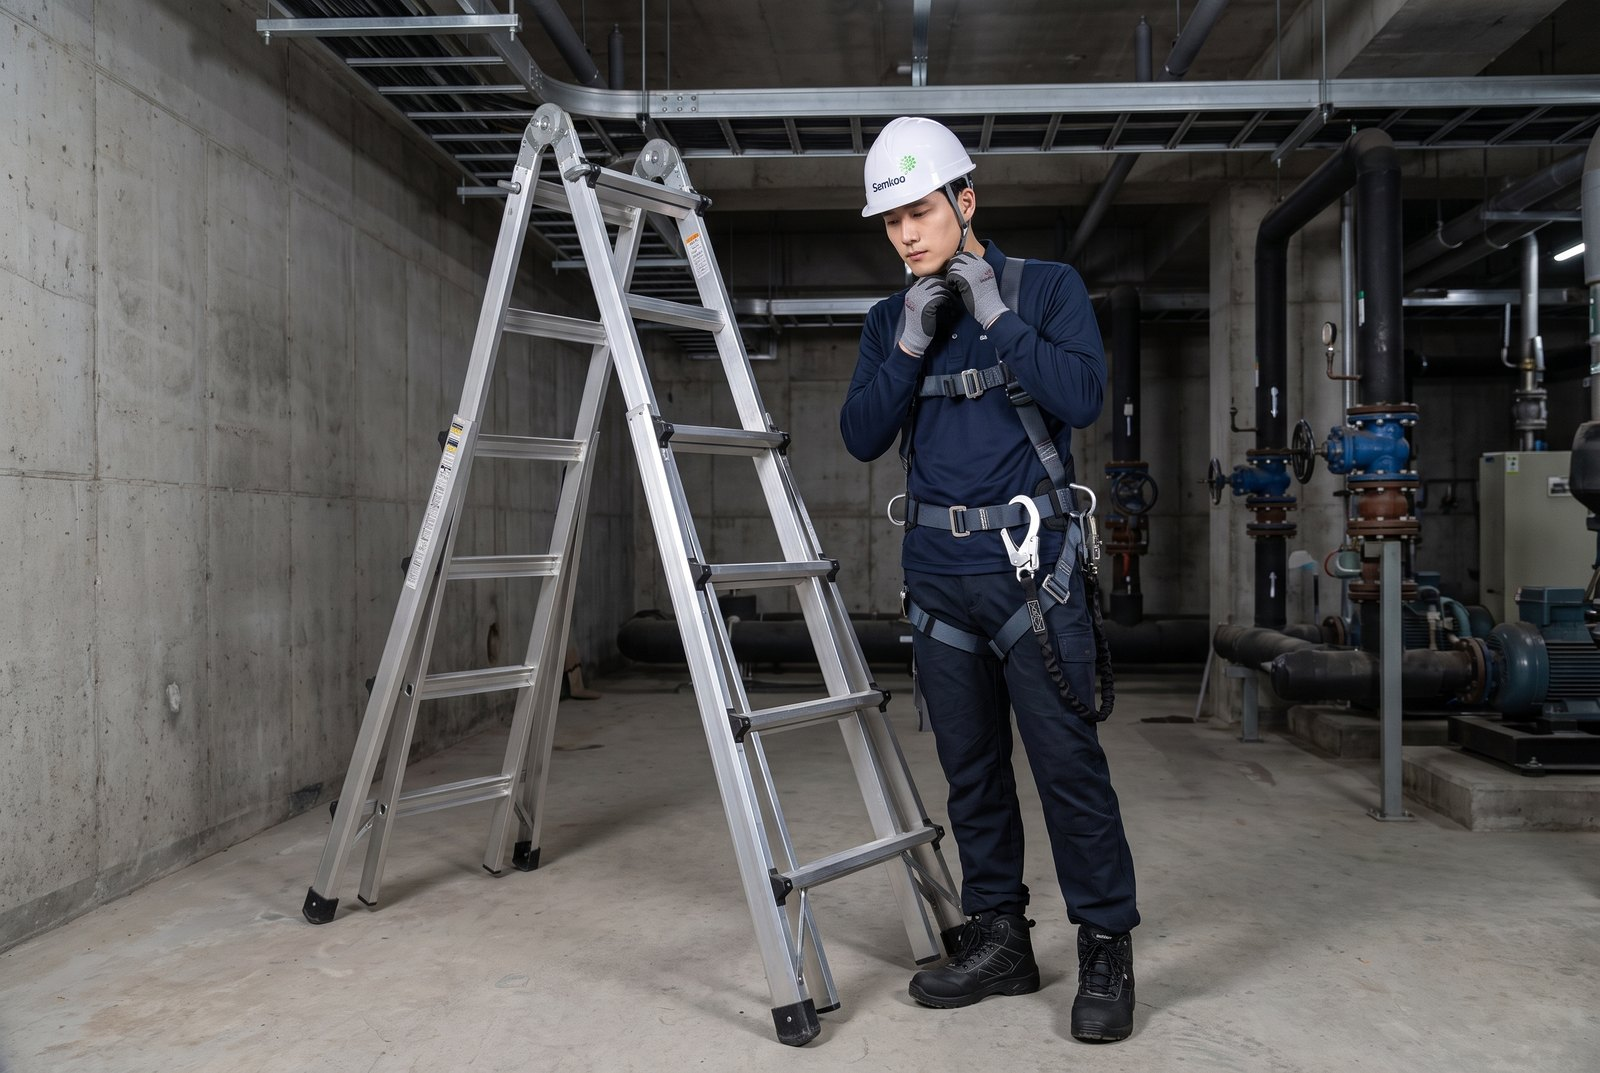
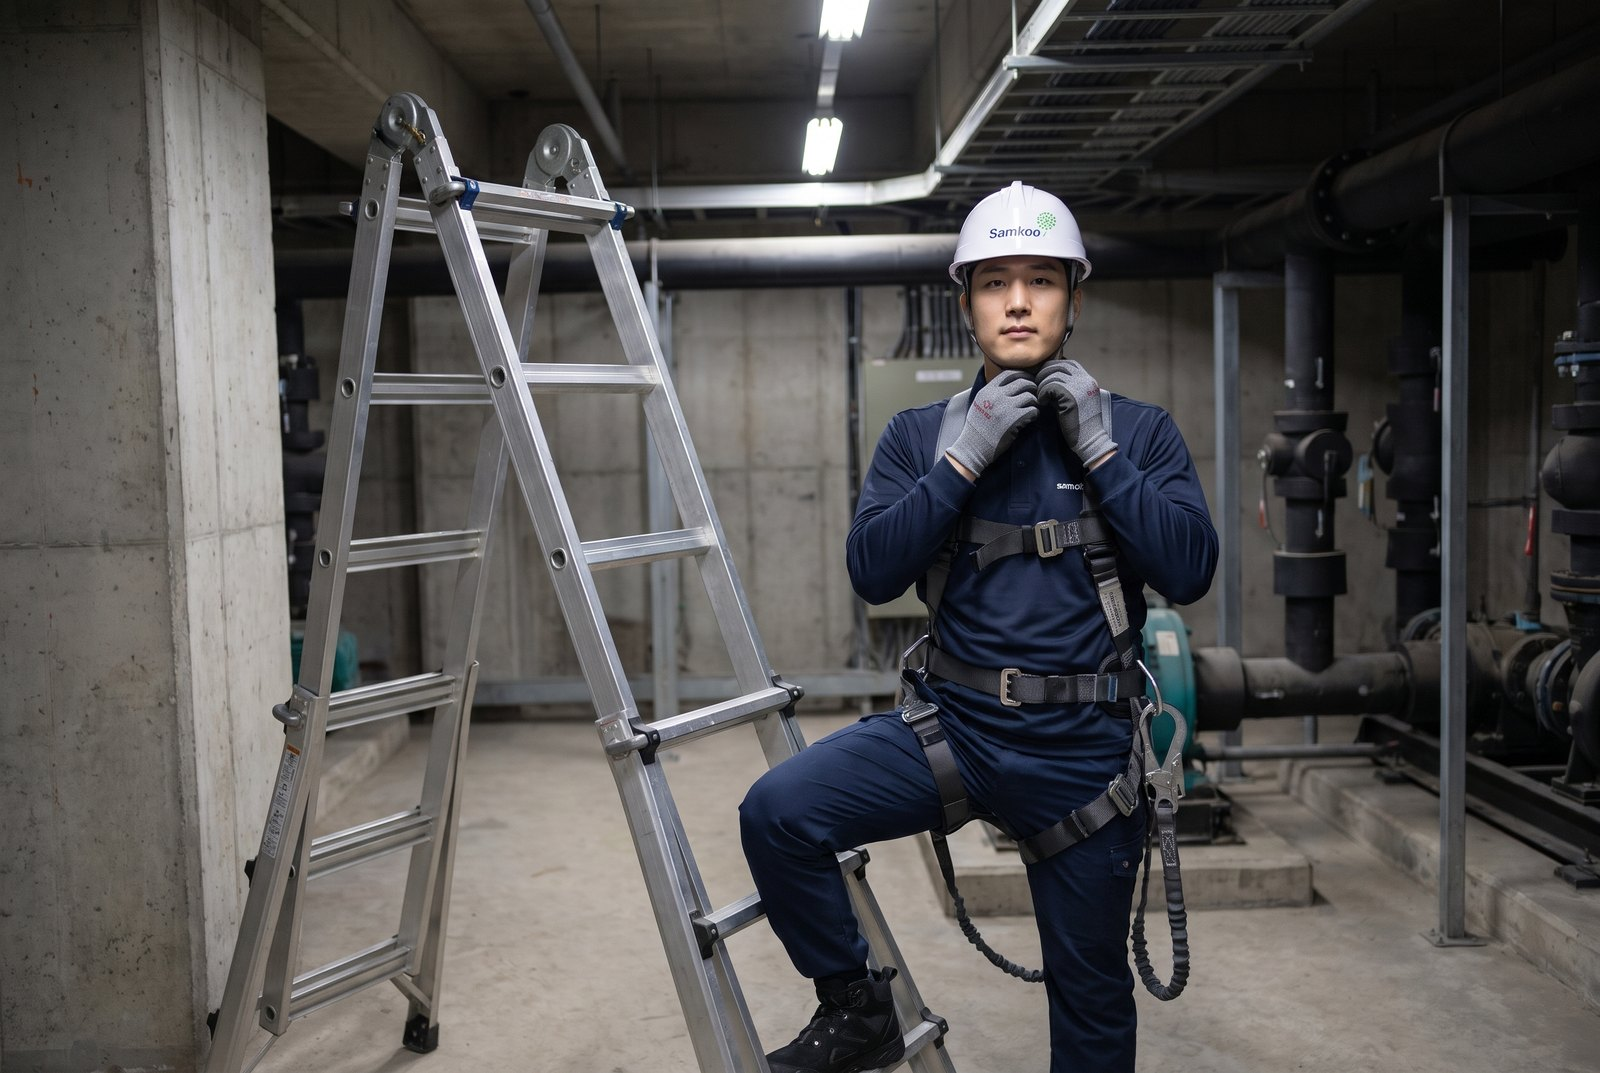
sop 시안: 사다리 작업 사진 4장 다시 만듦 (마스크 · 인원 수 · 신발 · 로고)
4번에서 마스크를 쓰고 있던 것을 없앴다. 2번은 세 사람이 나오던 것을
두 사람으로 고쳤다. 프롬프트에 등장 인원을 못 박아, 배경에 지나가는
사람도 들어오지 않게 했다.

1번은 안전모 글자가 Semkoo 로 틀렸고 신발이 베이지 워크부츠로 나왔다.
검정 안전화라고 분명히 적어 다시 만들었고, 이제 Samkoo 글자와 로고가
또렷하다. 12번도 새 인물로 바꿔, 교육자료 12장이 모두 같은 사람이 됐다.

사진은 긴 변 1600px 로 줄여 12.4MB 에서 3.1MB 가 됐다.

diff --git a/tools/sop_task_photos.py b/tools/sop_task_photos.py
@@ -46,8 +46,9 @@ STYLE = """실제 국내 건물 지하 기계실에서 찍은 **안전 교육용
 ## 복장 (두 사람 모두 똑같이)
 - 흰색 안전모, 턱끈을 턱 아래에 제대로 체결.
   안전모 앞면에 진회색 `Samkoo` 글자와 그 오른쪽 위 녹색 민들레 심볼.
-- 남색 긴팔 폴로셔츠(왼쪽 가슴에 같은 로고), 남색 작업바지, 검정 안전화,
-  회색 작업장갑.
+- 남색 긴팔 폴로셔츠(왼쪽 가슴에 같은 로고), 남색 작업바지, 회색 작업장갑.
+- 신발은 **검정색 안전화**입니다. 첨부 안전화 사진과 같은 것이며,
+  베이지 · 갈색 워크부츠나 운동화가 아닙니다.
 
 ## 사다리
 - 알루미늄 **A형 사다리**. 네 다리를 완전히 펴고 바닥에 세웠습니다.
